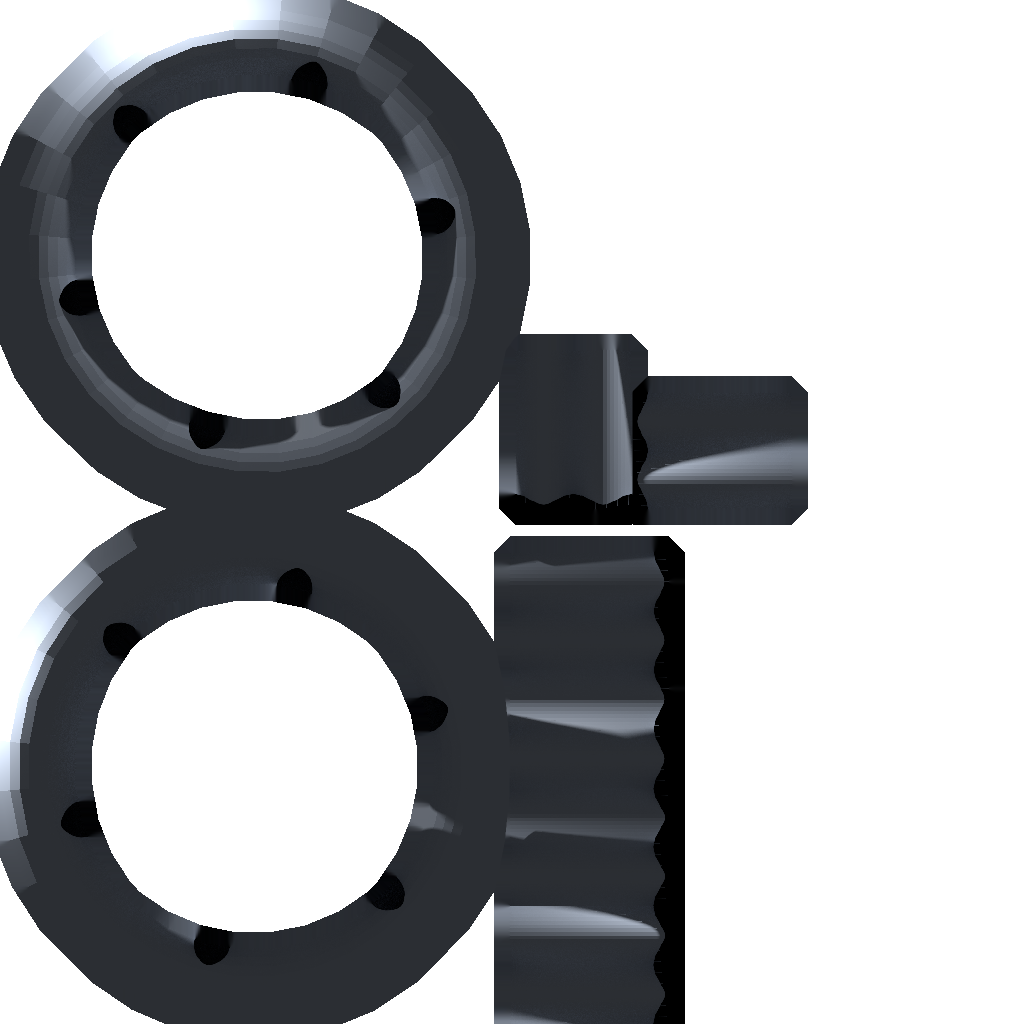
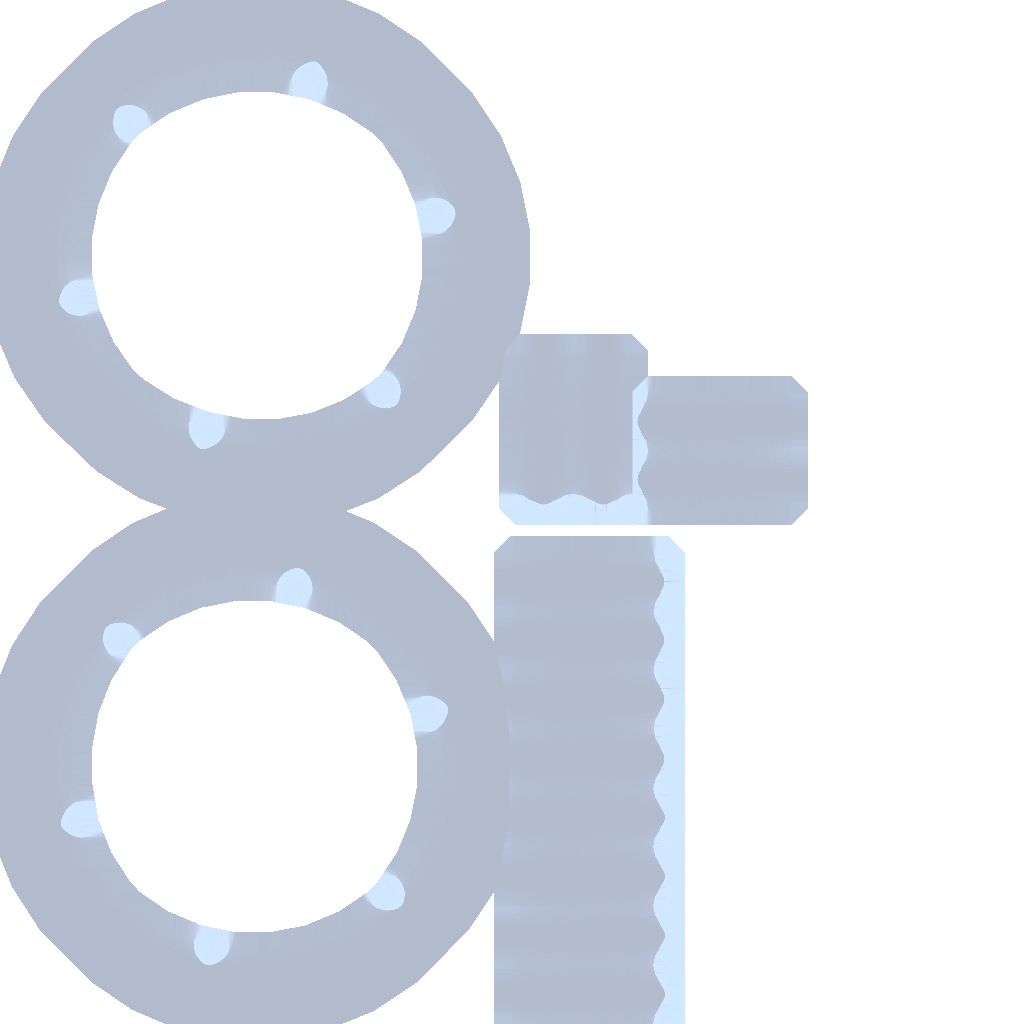
updated default shaders to properly calculate normals for lighting

diff --git a/src/gf3d_model.c b/src/gf3d_model.c
@@ -30,13 +30,11 @@ void gf3d_model_update_uniform_buffer(
     Model *model,
     UniformBuffer *ubo,
     Matrix4 modelMat,
-    Vector4D *colorMod,
-    Vector4D *highlightColor);
+    Vector4D *colorMod);
 void gf3d_model_update_highlight_uniform_buffer(
     Model *model,
     UniformBuffer *ubo,
     Matrix4 modelMat,
-    Vector4D *colorMod,
     Vector4D *highlightColor);
 
 void gf3d_model_update_highlight_model_descriptor_set(
@@ -217,7 +215,7 @@ void gf3d_model_update_basic_model_descriptor_set(
     imageInfo.imageView = model->texture->textureImageView;
     imageInfo.sampler = model->texture->textureSampler;
 
-    gf3d_model_update_uniform_buffer(model,ubo,modelMat,colorMod,highlightColor);
+    gf3d_model_update_uniform_buffer(model,ubo,modelMat,colorMod);
     bufferInfo.buffer = ubo->uniformBuffer;
     bufferInfo.offset = 0;
     bufferInfo.range = sizeof(MeshUBO);        
@@ -278,7 +276,7 @@ void gf3d_model_update_highlight_model_descriptor_set(
     imageInfo.imageView = model->texture->textureImageView;
     imageInfo.sampler = model->texture->textureSampler;
 
-    gf3d_model_update_uniform_buffer(model,ubo,modelMat,colorMod,highlightColor);
+    gf3d_model_update_uniform_buffer(model,ubo,modelMat,highlightColor);
     bufferInfo.buffer = ubo->uniformBuffer;
     bufferInfo.offset = 0;
     bufferInfo.range = sizeof(MeshUBO);        
@@ -307,8 +305,7 @@ void gf3d_model_update_uniform_buffer(
     Model *model,
     UniformBuffer *ubo,
     Matrix4 modelMat,
-    Vector4D *colorMod,
-    Vector4D *highlightColor)
+    Vector4D *colorMod)
 {
     void* data;
     UniformBufferObject graphics_ubo;
@@ -320,7 +317,6 @@ void gf3d_model_update_uniform_buffer(
     gfc_matrix_copy(modelUBO.proj,graphics_ubo.proj);
     
     if (colorMod)vector4d_copy(modelUBO.color,(*colorMod));
-    if (highlightColor)vector4d_copy(modelUBO.highlight,(*highlightColor));
         
     vkMapMemory(gf3d_model.device, ubo->uniformBufferMemory, 0, sizeof(MeshUBO), 0, &data);
     
@@ -333,7 +329,6 @@ void gf3d_model_update_highlight_uniform_buffer(
     Model *model,
     UniformBuffer *ubo,
     Matrix4 modelMat,
-    Vector4D *colorMod,
     Vector4D *highlightColor)
 {
     void* data;
@@ -345,8 +340,7 @@ void gf3d_model_update_highlight_uniform_buffer(
     gfc_matrix_copy(modelUBO.view,graphics_ubo.view);
     gfc_matrix_copy(modelUBO.proj,graphics_ubo.proj);
     
-    if (colorMod)vector4d_copy(modelUBO.color,(*colorMod));
-    if (highlightColor)vector4d_copy(modelUBO.highlight,(*highlightColor));
+    if (highlightColor)vector4d_copy(modelUBO.color,(*highlightColor));
         
     vkMapMemory(gf3d_model.device, ubo->uniformBufferMemory, 0, sizeof(MeshUBO), 0, &data);
     

diff --git a/src/agumon.c b/src/agumon.c
@@ -18,7 +18,7 @@ Entity *agumon_new(Vector3D position)
         return NULL;
     }
     ent->selectedColor = gfc_color(0.1,1,0.1,1);
-    ent->color = gfc_color(0,0,0,0);
+    ent->color = gfc_color(1,1,1,1);
     ent->model = gf3d_model_load("dino");
     ent->think = agumon_think;
     ent->update = agumon_update;
@@ -34,7 +34,7 @@ void agumon_update(Entity *self)
         return;
     }
     vector3d_add(self->position,self->position,self->velocity);
-    self->rotation.z += 0.01;
+    self->rotation.x += 0.01;
 }
 
 void agumon_think(Entity *self)

diff --git a/include/gf3d_mesh.h b/include/gf3d_mesh.h
@@ -13,7 +13,6 @@ typedef struct
     Matrix4 view;
     Matrix4 proj;
     Vector4D color; //color mod
-    Vector4D highlight;//color mod
 }MeshUBO;
 
 typedef struct
